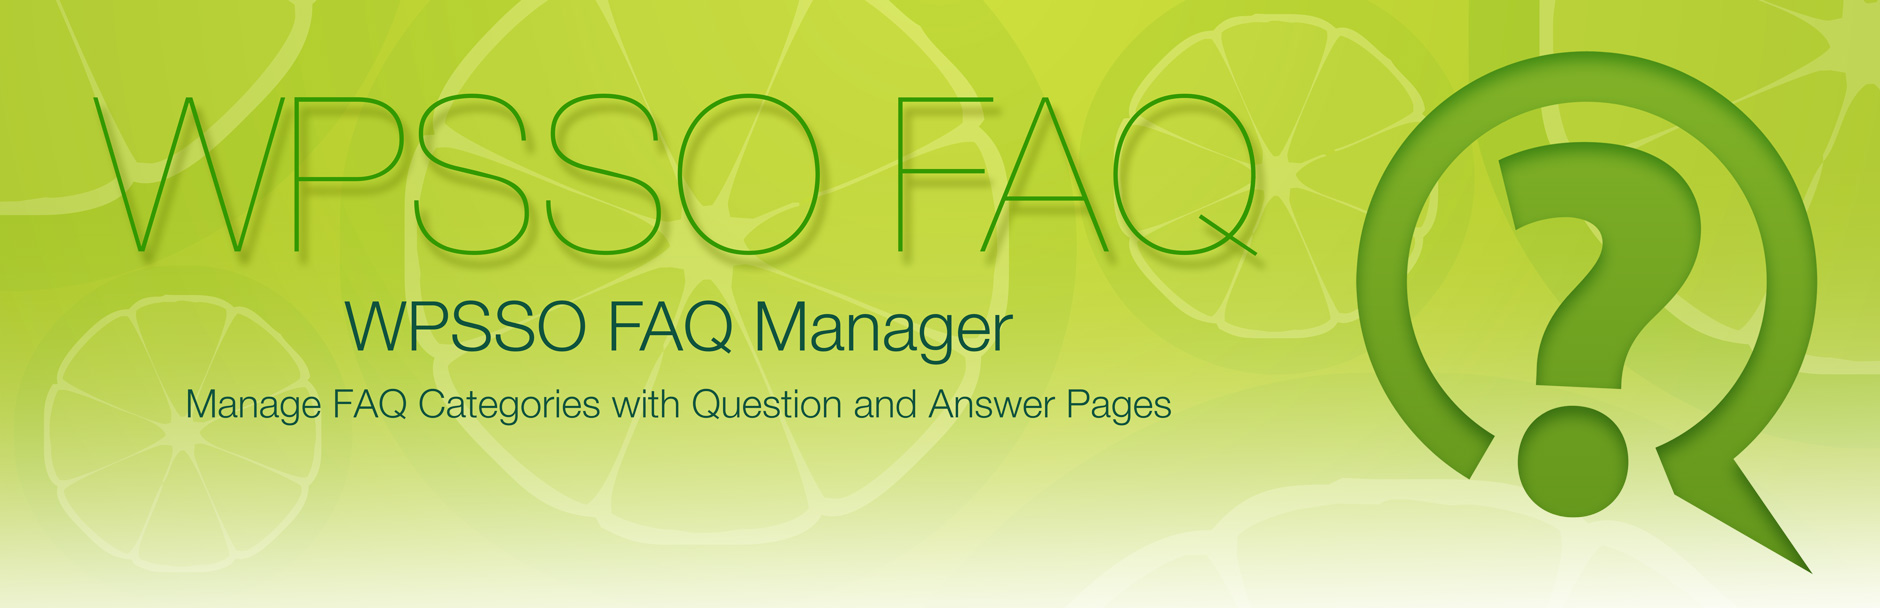
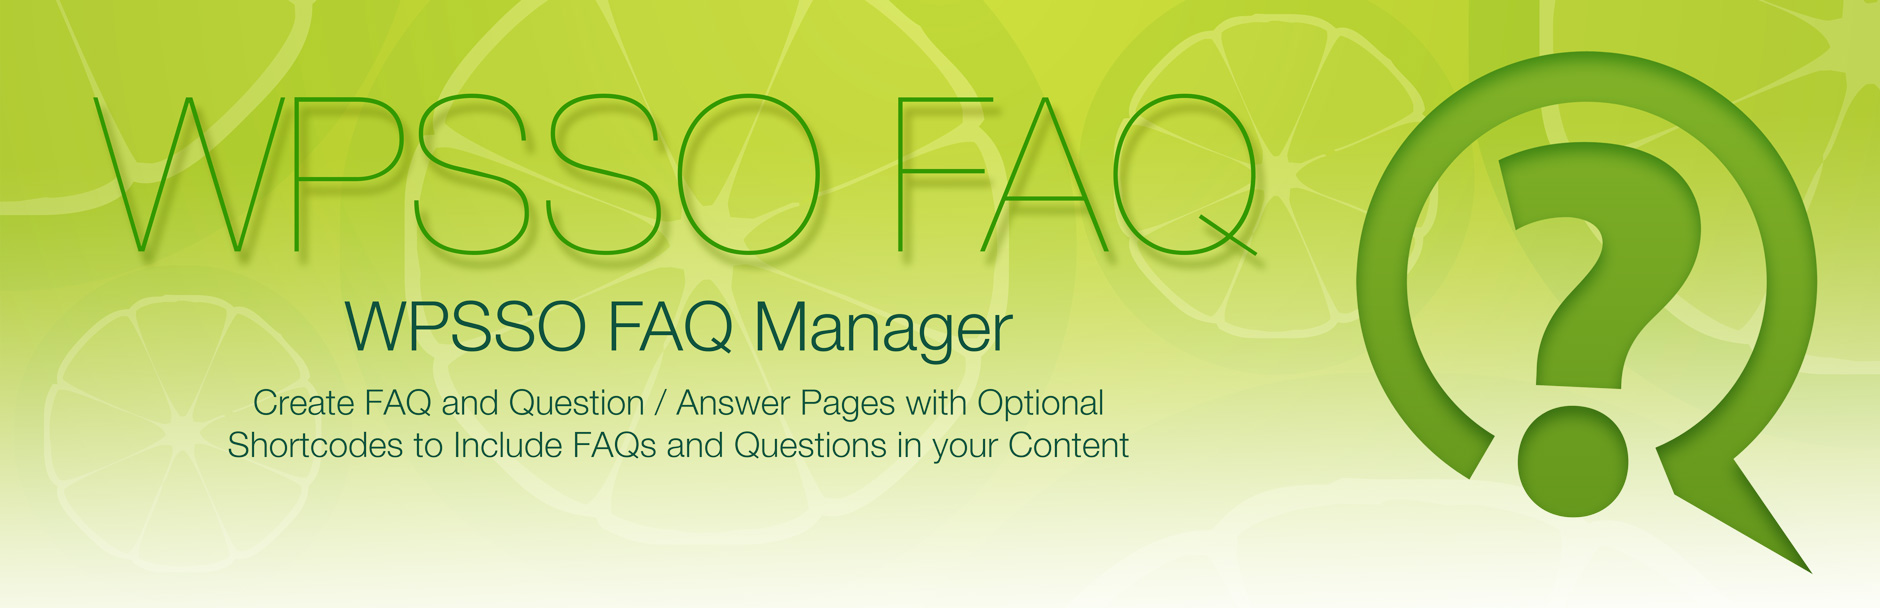
non-essential support files (documentation and assets)

diff --git a/index.html b/index.html
@@ -29,7 +29,7 @@
 
 <table>
 <tr><th align="right" valign="top" nowrap>Plugin Name</th><td>WPSSO FAQ Manager</td></tr>
-<tr><th align="right" valign="top" nowrap>Summary</th><td>Create FAQ and Question / Answer pages and/or use shortcodes to include FAQs anywhere in your content.</td></tr>
+<tr><th align="right" valign="top" nowrap>Summary</th><td>Create FAQ and Question / Answer Pages with Optional Shortcodes to Include FAQs and Questions in your Content.</td></tr>
 <tr><th align="right" valign="top" nowrap>Stable Version</th><td>2.4.0</td></tr>
 <tr><th align="right" valign="top" nowrap>Requires PHP</th><td>5.6 or newer</td></tr>
 <tr><th align="right" valign="top" nowrap>Requires WordPress</th><td>4.2 or newer</td></tr>
